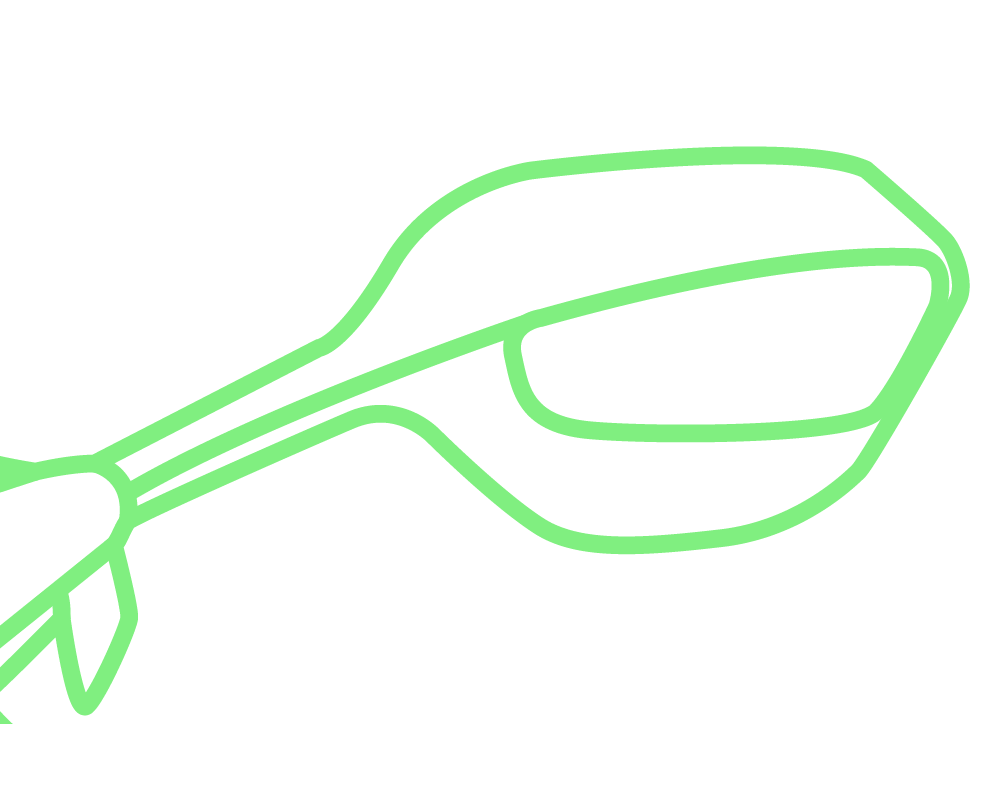
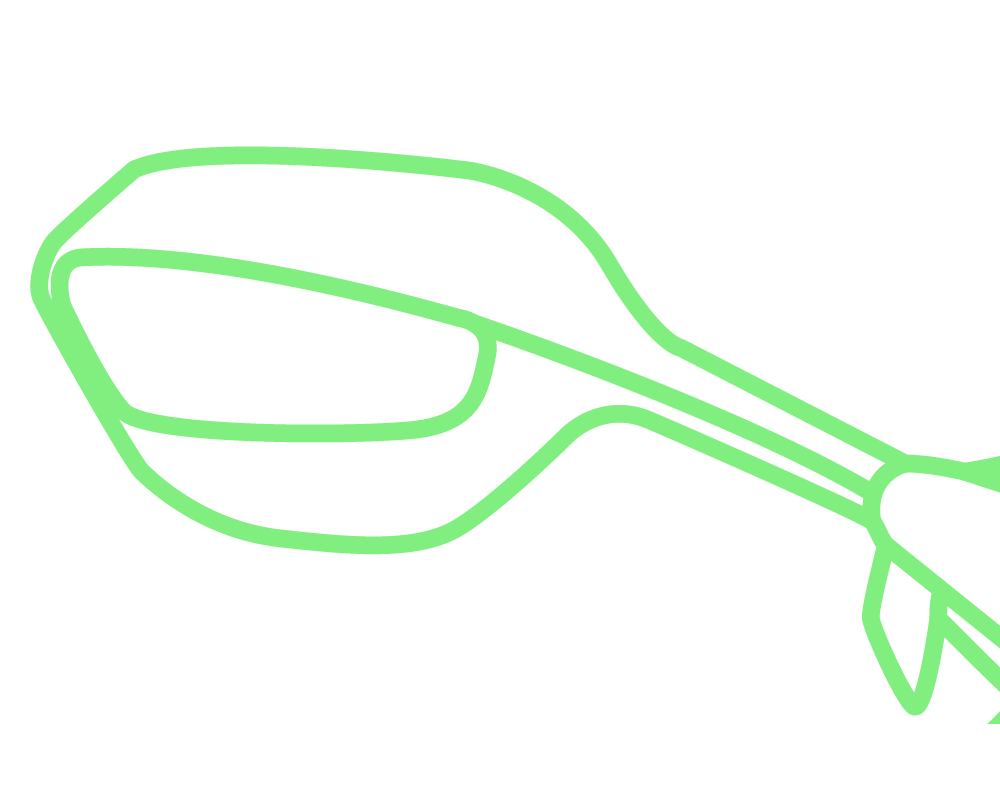
Подписанны макеты спорт байка и прономерованы  на вопросах; Подготовка макетов спорт байков к алгоритмам проставления дамга

Changed region(s): [[0.0, 0.1562, 1.0, 0.9062]]

diff --git a/MDispatch/MDispatch/ViewModels/InspectionMV/Servise/Models/BikeSport.cs b/MDispatch/MDispatch/ViewModels/InspectionMV/Servise/Models/BikeSport.cs
@@ -12,12 +12,132 @@ namespace MDispatch.ViewModels.InspectionMV.Servise.Models
         public int GetIndexCar(int countPhoto)
         {
             int indecCar = 0;
+            switch (countPhoto)
+            {
+                case 1:
+                    {
+                        indecCar = 3;
+                        break;
+                    }
+                case 2:
+                    {
+                        indecCar = 4;
+                        break;
+                    }
+                case 3:
+                    {
+                        indecCar = 7;
+                        break;
+                    }
+                case 4:
+                    {
+                        indecCar = 6;
+                        break;
+                    }
+                case 5:
+                    {
+                        indecCar = 8;
+                        break;
+                    }
+                case 6:
+                    {
+                        indecCar = 12;
+                        break;
+                    }
+                case 7:
+                    {
+                        indecCar = 13;
+                        break;
+                    }
+                default:
+                    {
+                        indecCar = 0;
+                        break;
+                    }
+
+            }
             return indecCar;
         }
 
         public string GetNameLayout(int inderxPhotoInspektion)
         {
             string nameLayout = "";
+            if (inderxPhotoInspektion == 1)
+            {
+                nameLayout = "Dashboard sportbike";
+            }
+            else if (inderxPhotoInspektion == 2)
+            {
+                nameLayout = "Dashboard and sportbike windshield";
+            }
+            else if (inderxPhotoInspektion == 3)
+            {
+                nameLayout = "Front of the sport bike on the right";
+            }
+            else if (inderxPhotoInspektion == 4)
+            {
+                nameLayout = "Rear view mirror sport bike on the right";
+            }
+            else if (inderxPhotoInspektion == 5)
+            {
+                nameLayout = "Front wheel of a sport bike on the right";
+            }
+            else if (inderxPhotoInspektion == 6)
+            {
+                nameLayout = "Sport bike headlights";
+            }
+            else if (inderxPhotoInspektion == 7)
+            {
+                nameLayout = "Sportbike windshield";
+            }
+            else if (inderxPhotoInspektion == 8)
+            {
+                nameLayout = "Front sport bike";
+            }
+            else if (inderxPhotoInspektion == 9)
+            {
+                nameLayout = "Right front headlight sport bike";
+            }
+            else if (inderxPhotoInspektion == 10)
+            {
+                nameLayout = "Left front headlight sport bike";
+            }
+            else if (inderxPhotoInspektion == 11)
+            {
+                nameLayout = "Front wheel of a sport bike on the left";
+            }
+            else if (inderxPhotoInspektion == 12)
+            {
+                nameLayout = "Front of the sport bike on the left";
+            }
+            else if (inderxPhotoInspektion == 13)
+            {
+                nameLayout = "Rear view mirror sport bike on the left";
+            }
+            else if (inderxPhotoInspektion == 14)
+            {
+                nameLayout = "Whole side sports bike on the left";
+            }
+            else if (inderxPhotoInspektion == 15)
+            {
+                nameLayout = "----------";
+            }
+            else if (inderxPhotoInspektion == 16)
+            {
+                nameLayout = "The back of the sports bike on the left";
+            }
+            else if (inderxPhotoInspektion == 17)
+            {
+                nameLayout = "Rear wheel sports bike left";
+            }
+            else if (inderxPhotoInspektion == 18)
+            {
+                nameLayout = "Rear wheel sports bike right";
+            }
+            else if (inderxPhotoInspektion == 19)
+            {
+                nameLayout = "The back of the sports bike on the right";
+            }
             return nameLayout;
         }
 

diff --git a/MDispatch/MDispatch/ViewModels/InspectionMV/Servise/Models/CarCoupe.cs b/MDispatch/MDispatch/ViewModels/InspectionMV/Servise/Models/CarCoupe.cs
@@ -54,49 +54,6 @@ namespace MDispatch.ViewModels.InspectionMV.Servise.Models
             return indecCar;
         }
 
-        public int GetIndexCarFullPhoto(int countPhoto)
-        {
-            int indecCar = 0;
-            switch (countPhoto)
-            {
-                case 1:
-                    {
-                        indecCar = 7;
-                        break;
-                    }
-                case 2:
-                    {
-                        indecCar = 19;
-                        break;
-                    }
-                case 3:
-                    {
-                        indecCar = 2;
-                        break;
-                    }
-                case 4:
-                    {
-                        indecCar = 16;
-                        break;
-                    }
-                case 5:
-                    {
-                        indecCar = 23;
-                        break;
-                    }
-                case 6:
-                    {
-                        indecCar = 20;
-                        break;
-                    }
-                default:
-                    {
-                        indecCar = 0;
-                        break;
-                    }
-            }
-            return indecCar;
-        }
 
         public string GetNameLayout(int inderxPhotoInspektion)
         {
